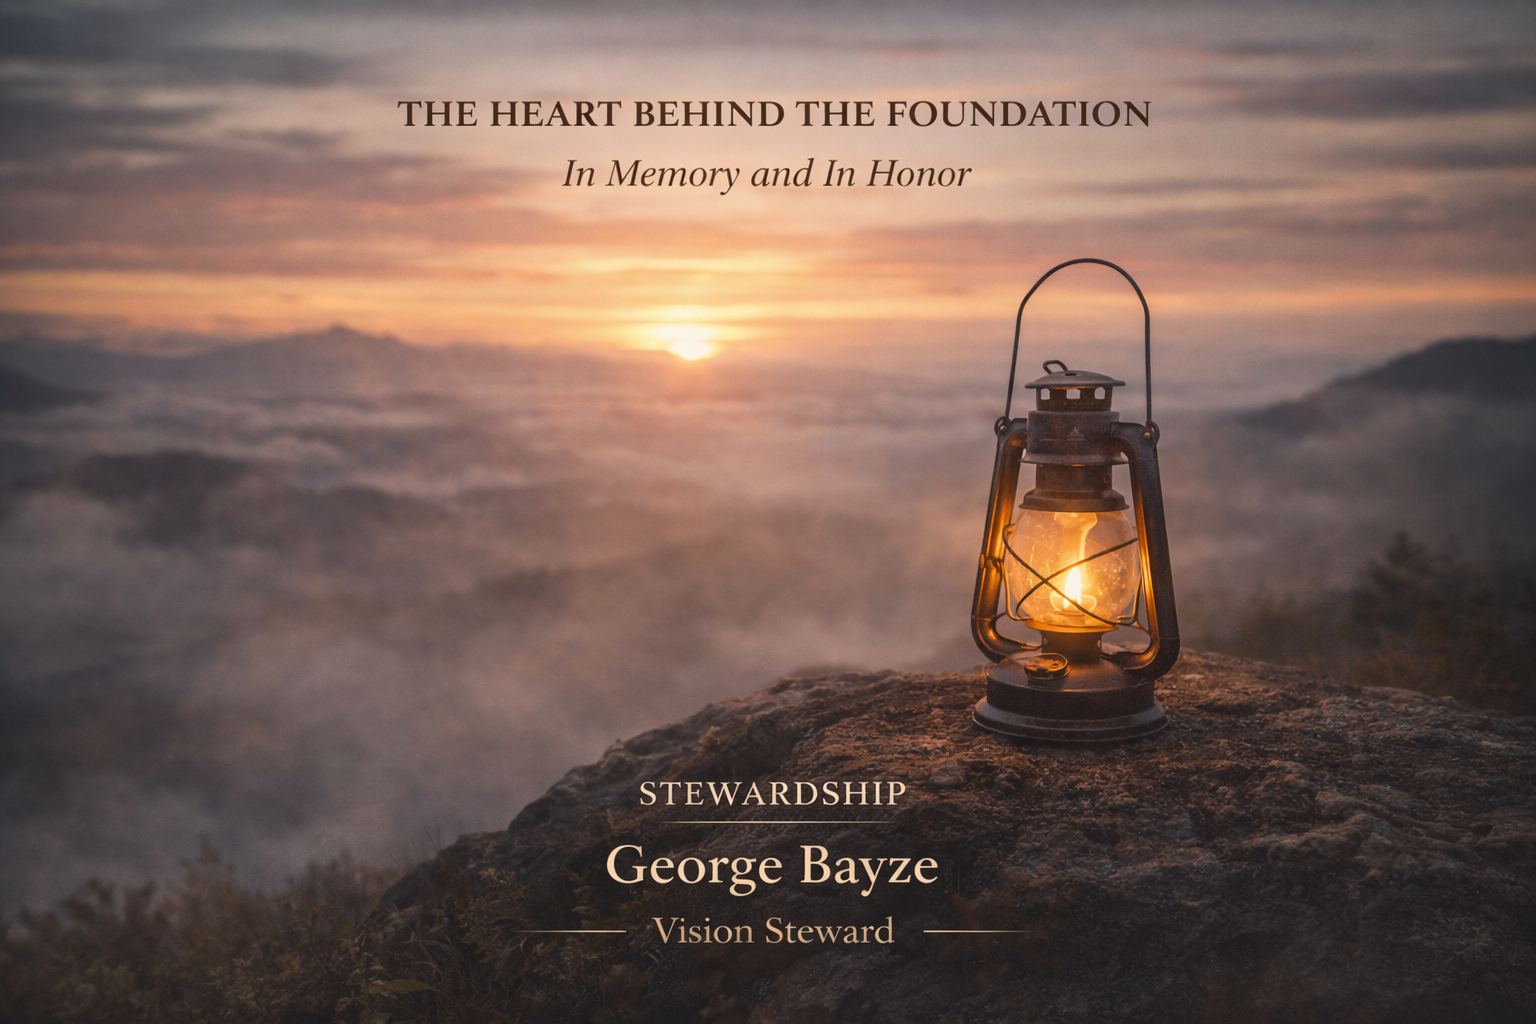
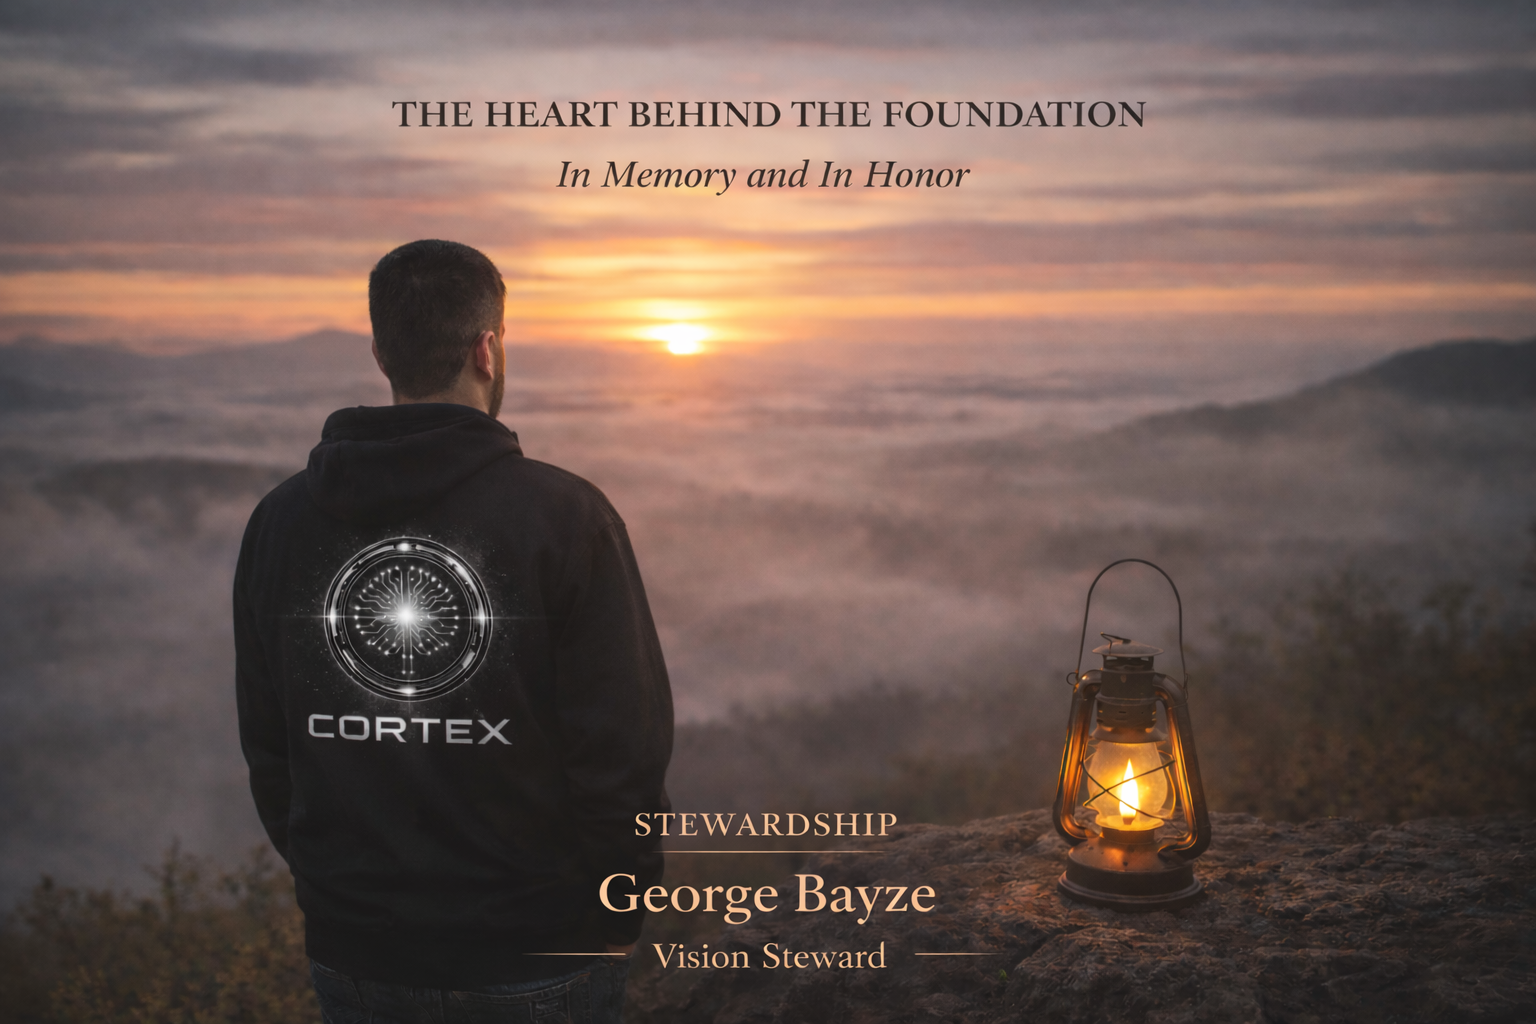
New founder image + video autoplay muted on scroll

diff --git a/src/app/page.tsx b/src/app/page.tsx
@@ -769,7 +769,7 @@ export default function Home() {
 
               {/* FOUNDER VIDEO */}
               <div className="founder-video-wrapper">
-                <video ref={founderVideoRef} controls playsInline preload="metadata" poster="/images/hero-seal.png" style={{ background: "var(--bg-deep)" }}>
+                <video ref={founderVideoRef} controls playsInline autoPlay muted preload="auto" poster="/images/hero-seal.png" style={{ background: "var(--bg-deep)" }}>
                   <source src="/video/founder-video.mp4" type="video/mp4" />
                   <track kind="captions" src="/video/founder-video.vtt" srcLang="en" label="English" default />
                   Your browser does not support the video tag.
